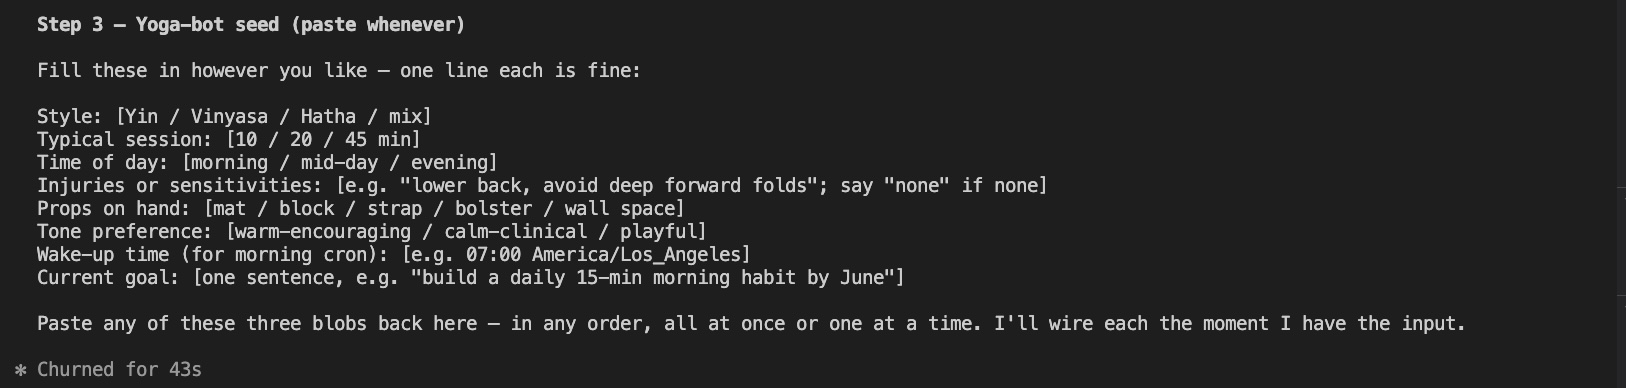
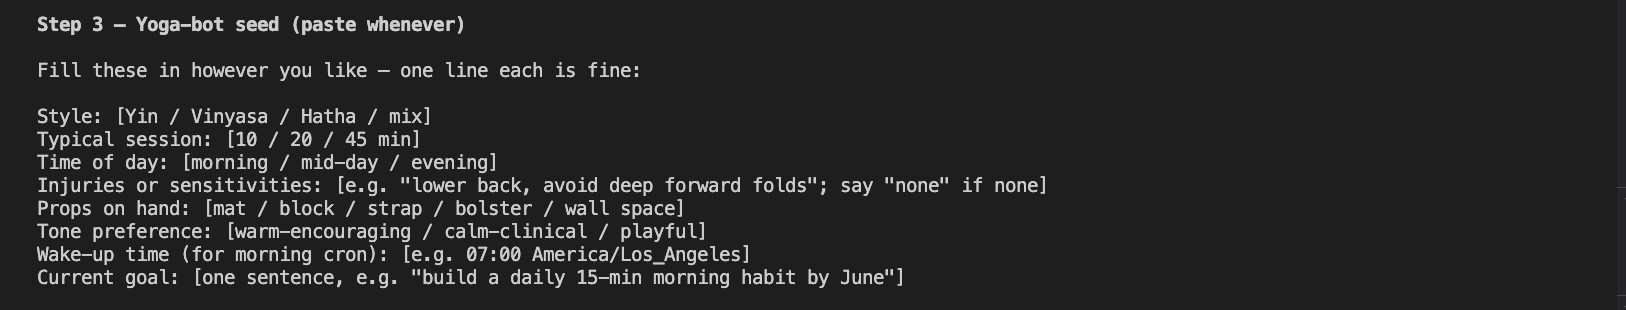
Hermes guide: intro rewrite, cropped screenshots, provider tweaks

Changed region(s): [[0.0, 0.1452, 0.8918, 0.9871], [0.0, 0.029, 0.3075, 0.1161]]

diff --git a/resources/hermes-setup-guide.html b/resources/hermes-setup-guide.html
@@ -306,9 +306,22 @@
       display: block;
       width: 100%;
       max-width: 100%;
+      height: auto;
       border: 1px solid var(--border);
       border-radius: 3px;
       box-shadow: 0 1px 3px rgba(0, 0, 0, 0.05);
+    }
+
+    /* Portrait-oriented screenshots (mobile chat, wizard panels) scale down
+       so they don't dominate the page at full document width. */
+    .screenshot.portrait {
+      text-align: center;
+    }
+
+    .screenshot.portrait img {
+      width: auto;
+      max-width: min(55%, 320px);
+      margin: 0 auto;
     }
 
     .screenshot-caption {
@@ -318,6 +331,7 @@
       margin-top: 4px;
       padding: 0 2px;
       line-height: 1.4;
+      text-align: center;
     }
 
     .screenshot-seq {
@@ -466,7 +480,7 @@
 
       <!-- INTRO -->
       <div class="intro">
-        A clean, Hermes-native path from zero to "I can DM my agent on Telegram." No firewalls, no custom systemd units, no provider-fallback config, no troubleshooting for bugs you haven't hit yet. Just Hermes the way it was designed to be installed. Built from the <code>yoga-bot</code> reference deploy we use in Session 11.
+        Hermes is a personal AI agent that lives on a $5 cloud server and talks to you through Telegram (or a terminal). It remembers you across sessions, writes its own skills as it learns from real use, and shows up first thing in the morning when you ask it to. This guide walks you through setting one up in about ten minutes &mdash; the same path we took for the <code>yoga-bot</code> reference deploy in Session 11.
       </div>
 
       <div class="intro" style="border-left-color: var(--blue); background: rgba(45, 163, 203, 0.04);">
@@ -578,8 +592,8 @@ sudo systemctl status hermes-gateway --no-pager</div>
         <li>
           <span class="step-title">Test it</span>
           <span class="step-desc"><strong>If you wired Telegram:</strong> send your bot any message. It should reply within a few seconds.</span>
-          <div class="screenshot">
-            <img src="../assets/images/hermes-guide/telegram.jpg" alt="First round-trip DM with a Hermes yoga-bot on Telegram Desktop: /start, hi, the /sethome prompt, and the bot's warm Hi Roy! reply">
+          <div class="screenshot portrait">
+            <img src="../assets/images/hermes-guide/telegram.jpg" alt="First round-trip DM with a Hermes yoga-bot on Telegram: /start, hi, the /sethome prompt, and the bot's warm Hi Roy! reply">
             <div class="screenshot-caption">First round-trip with the yoga-bot reference deploy &mdash; <code>/start</code>, a "hi", the <code>/sethome</code> prompt, and a personalized reply.</div>
           </div>
           <span class="step-desc"><strong>If you skipped Telegram:</strong> run <code>hermes</code> on the VPS &mdash; you're in a chat with your agent. Type something, press Enter. Type <code>/help</code> to see the slash commands.</span>
@@ -701,12 +715,12 @@ sudo systemctl status hermes-gateway --no-pager</div>
 https://www.aportlandcareer.com/ai-course/resources/hermes-setup-guide.html
 
 Pre-answered choices (fill these in before sending):
-- VPS provider: [Linode | DigitalOcean | Hetzner | Vultr | Lightsail]
+- VPS provider: [Linode | DigitalOcean | Hetzner]
 - VPS region: [closest to me]
 - Hardware tier: $5/month nanode-equivalent (Hermes orchestration only, no local models)
 - OS: Ubuntu 24.04 LTS
 - SSH key: ~/.ssh/id_ed25519.pub on my laptop
-- LLM provider: [Anthropic | OpenRouter | Google AI Studio with AIzaSy key]
+- LLM provider: [Anthropic | OpenRouter | Google Gemini with AIzaSy key]
 - Messaging: [Telegram | skip]
 
 Workflow:
@@ -716,15 +730,7 @@ Workflow:
 4. After everything is live, verify with `hermes doctor` and a test message.
 5. Record a `session-log.md` in the working directory of what you did, decisions, and gotchas.
 
-If you hit a Google AI Studio AQ.-prefix key bug (HTTP 400 "Multiple authentication credentials"), switch to OpenRouter automatically and tell me why.</div>
-      </div>
-
-      <!-- TEACHING NOTE -->
-      <div class="section-title">Teaching Note</div>
-
-      <div class="card">
-        <div class="card-desc">This is the cleanest Hermes install the project supports as of v0.10.0. If you're showing someone what Hermes looks like, show them this. The production guide is for when the thing is important enough to harden &mdash; not for when you're still deciding whether you like it.</div>
-        <div class="card-desc">Nothing in the full guide <em>contradicts</em> this quickstart. It just adds rigor you may not need on day one. You can run the quickstart first and layer the hardening on later without reinstalling.</div>
+If you hit a Google AI Studio AQ.-prefix key bug (HTTP 400 "Multiple authentication credentials"), switch to Anthropic automatically and tell me why.</div>
       </div>
 
       <!-- FOOTER -->
